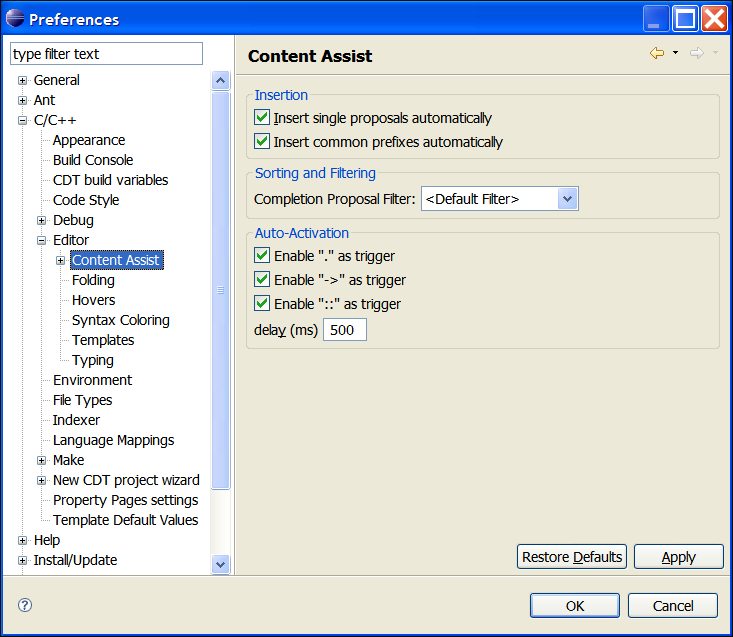
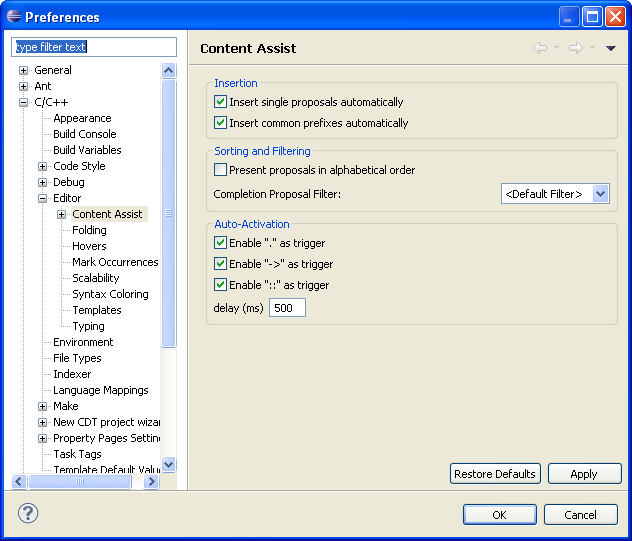
Bug 261475 - Wrong documentation links

Changed region(s): [[0.0, 0.0, 1.0, 1.0]]

diff --git a/all/org.eclipse.cdt.doc.user/tasks/cdt_t_contentassist.htm b/all/org.eclipse.cdt.doc.user/tasks/cdt_t_contentassist.htm
@@ -37,23 +37,16 @@ commonly-used snippets of code.</p>
 <p>To set Content Assist preferences:</p>
 <ol>
   <li>Click <b>Window &gt; Preferences</b>.</li>
-  <li>Expand <b>C/C++</b>, and click <b>C/C++ Editor</b>.</li>
-  <li>Click the <b>Content Assist</b> tab.<br>
+  <li>Expand <b>C/C++</b> and <b>Editor</b>.</li>
+  <li>Select <b>Content Assist</b>.<br>
   <img src="../images/contentAssist_preferences.png"  alt="Content Assist Preferences"></li>
-  <li>Do  the following: 
+  <li>Do the following: 
   <ul>
-    <li>To change the scope from which Content Assist retrieves its proposals, select 
-	either <b>Search current file and included files</b> or <b>Search current project</b> 
-	by selecting the appropriate the radio button.</li>
 	<li>To insert an element when you open Content Assist and it is the only 
     item in the list, select the <b>Insert single proposals automatically</b> check box.</li>
-    <li>To automatically insert a proposal, if it is the only one found when Content Assist is invoked, select the <b>Enable auto activation</b> checkbox.</li>
+    <li>To automatically insert a common prefix of all proposals, select the <b>Insert common prefixes automatically</b> checkbox.</li>
     <li>To display proposals in alphabetical order, rather than by relevance, select the <b>Present proposals in alphabetical order</b> checkbox. </li>
-    <li>To change the amount of time Content Assist is permitted to parse proposals enter the value for <b>Content Assist parsing timeout</b> in the text box area.</li>
-	<li>Enable Auto activation of content assist for ".", "->" or "::" triggers by selecting the appropriate checkboxes.</li>
-	<li>To change the delay	before Content Assist is automatically invoked for the triggers (shown above), enter the new delay in the <b>Auto activation delay</b> text box area.</li>
-	<li>To change the background color of the Content Assist dialog box, click the color palette button.</li>
-    <li>To change the foreground color of the Content Assist dialog box, click the color palette button.</li>
+	<li>To change <b>Auto-Activation</b> of content assist for ".", "->" or "::" triggers, select the appropriate checkboxes.</li>
   </ul>
   </li>
   <li>Click <b>OK</b>.</li>

diff --git a/all/org.eclipse.cdt.doc.user/concepts/cdt_c_templates.htm b/all/org.eclipse.cdt.doc.user/concepts/cdt_c_templates.htm
@@ -28,8 +28,8 @@ The templates that begin with that character appear. Double-click on a template 
 </p>
 
 <p><img border="0" src="../images/ngtasks.gif" ALT="Related tasks" width="143" height="21">
-<br><a href="../tasks/cdt_t_contentassist.htm">Creating and editing templates</a>
-<br><a href="../tasks/cdt_t_add_codetemp.htm">Using templates</a>
+<br><a href="../tasks/cdt_t_add_codetemp.htm">Creating and editing templates</a>
+<br><a href="../tasks/cdt_t_contentassist.htm">Using templates</a>
 <br><a href="../tasks/cdt_t_imp_code_temp.htm">Importing and exporting templates</a>
 </p>
 
